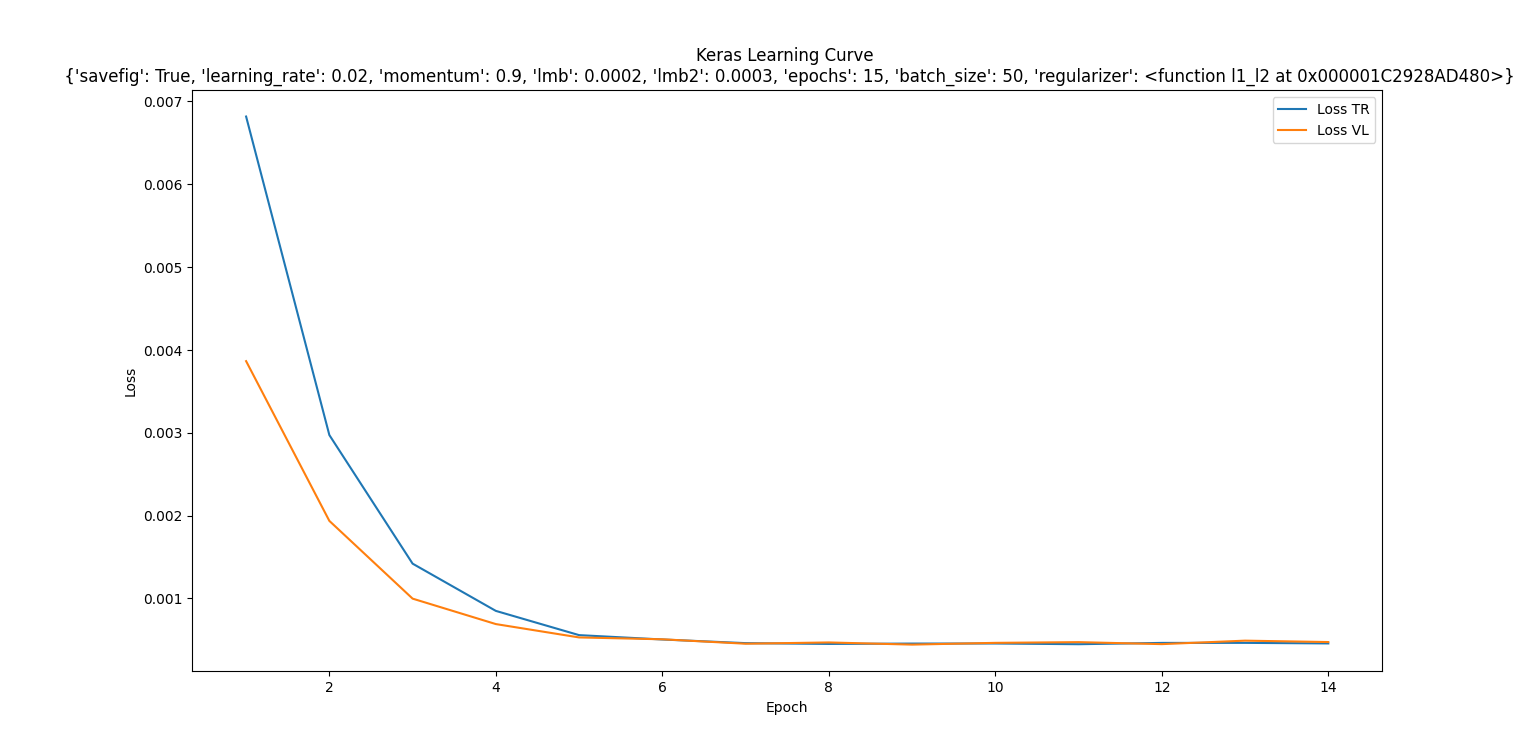
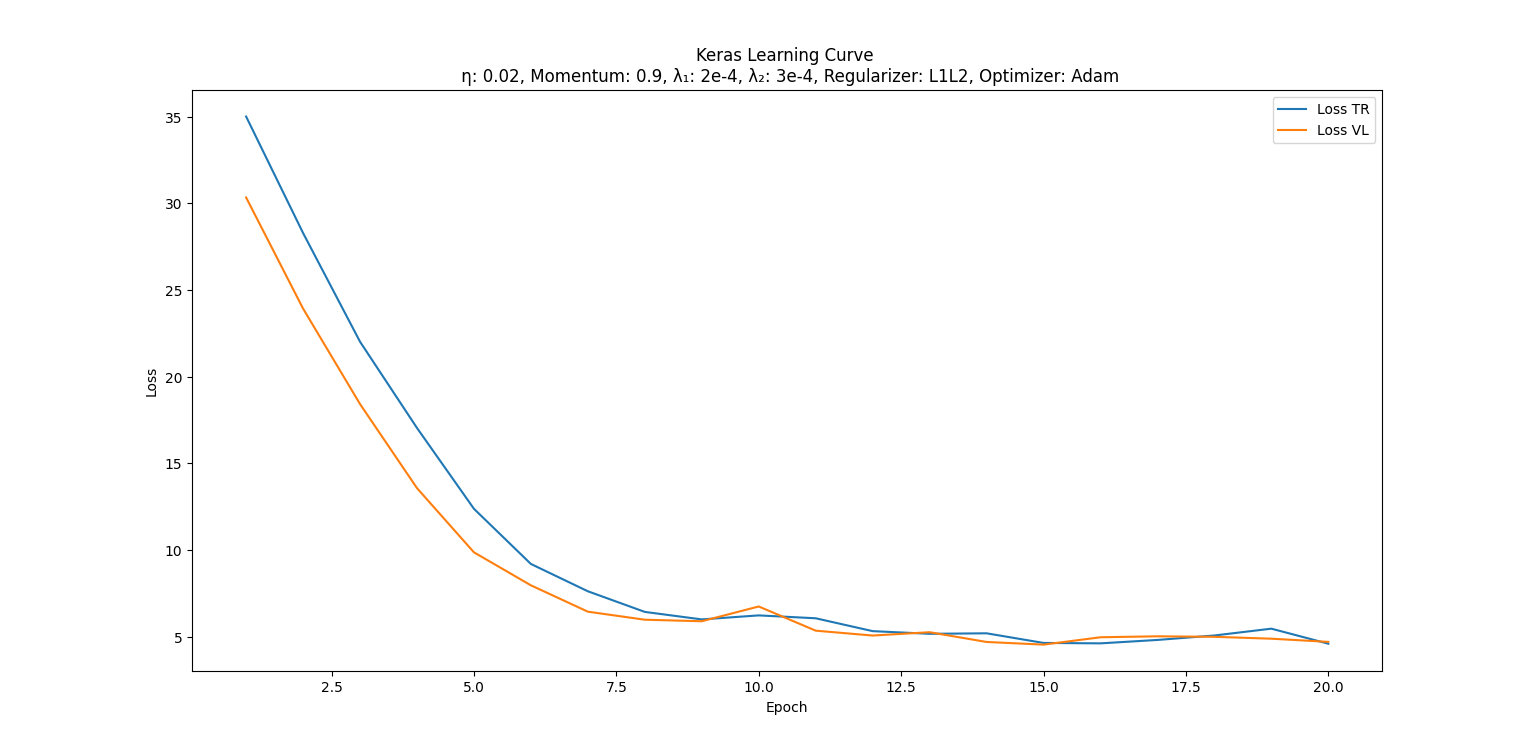
Last CUP commit

diff --git a/keras_test.py b/keras_test.py
@@ -45,8 +45,8 @@ def euclidean_distance_loss(y_true, y_pred):
 
 
 def create_model(lmb=0.0001, lmb2=0.0001,
-                 n_units=20,
-                 n_layers=3,
+                 n_units=5,
+                 n_layers=2,
                  init_mode='glorot_normal',
                  activation_fx='tanh',
                  regularizer=l1_l2):
@@ -81,16 +81,16 @@ def model_selection(x, y, epochs: int = 100):
     """Computed the gridsearch over some parameters and returns the best model."""
     # Evaluation list contains each tested model and relatives parameters into a dictionary
     evaluation = []
-    learning_rate = np.arange(start=0.01, stop=0.4, step=0.01)
+    learning_rate = np.arange(start=0.02, stop=0.4, step=0.01)
     learning_rate = [float(round(i, 4)) for i in list(learning_rate)]
 
     momentum = np.arange(start=0.9, stop=1, step=0.1)
     momentum = [float(round(i, 1)) for i in list(momentum)]
 
-    lmb = np.arange(start=0.0001, stop=0.001, step=0.0001)
+    lmb = np.arange(start=0.0001, stop=0.001, step=0.0002)
     lmb = [float(round(i, 5)) for i in list(lmb)]
 
-    lmb2 = np.arange(start=0.0001, stop=0.001, step=0.0004)
+    lmb2 = np.arange(start=0.0001, stop=0.001, step=0.0002)
     lmb2 = [float(round(i, 5)) for i in list(lmb)]
 
     total = len(learning_rate) * len(momentum) * len(lmb)
@@ -163,7 +163,7 @@ def plot_learning_curve(history, start_epoch=1, **kwargs):
 
     plt.xlabel("Epoch")
     plt.ylabel("Loss")
-    plt.title(f'Keras Learning Curve \n {kwargs}')
+    plt.title(f'Keras Learning Curve \n \u03b7: 0.02, Momentum: 0.9, \u03bb\u2081: 7e-4, \u03bb\u2082: 6e-4, Regularizer: L1L2, Optimizer: Adam')
     plt.legend(lgd)
 
     # Check if predictions are available in the history
@@ -176,7 +176,7 @@ def plot_learning_curve(history, start_epoch=1, **kwargs):
             plt.plot(range(start_epoch, kwargs['epochs']), predictions[:, i][start_epoch:])
             plt.xlabel("Epoch")
             plt.ylabel(f"Prediction Variable {i + 1}")
-            plt.title(f'Keras Learning Curve \n {kwargs} - Prediction Variable {i + 1}')
+            plt.title(f'Keras Learning Curve {kwargs}')
 
     plt.show()
 
@@ -194,16 +194,16 @@ def keras_nn(ms=False):
         # Best model with Lasso/Ridge regularization
         # params = dict(learning_rate=0.016, momentum=0.9, lmb=0.0005, epochs=1000, batch_size=50, regularizer=l2)
         # Best model with ElasticNet regularization
-        params = dict(learning_rate=0.02, momentum=0.9, lmb=0.0005,
-                      lmb2=0.0005, epochs=5000, batch_size=50, regularizer=l1_l2)
+        params = dict(learning_rate=0.02, momentum=0.9, lmb=0.0007,
+                      lmb2=0.0006, epochs=1000, batch_size=50, regularizer=l1_l2)
 
     # Create and fit the model
     cb = EarlyStopping(monitor="val_loss", patience=5)
     model = create_model(lmb=params['lmb'], lmb2=params["lmb2"], regularizer=params["regularizer"])
-    model.compile(optimizer=SGD(learning_rate=params["learning_rate"], momentum=params["momentum"]))
-    # model.compile(optimizer=Adam(learning_rate=params["learning_rate"]))
+    model.compile(optimizer=SGD(learning_rate=params["learning_rate"], momentum=params["momentum"]), loss=euclidean_distance_loss)
+    # model.compile(optimizer=Adam(learning_rate=params["learning_rate"]), loss=euclidean_distance_loss)
     res = model.fit(x, y,
-                    validation_split=0.3,
+                    validation_split=0.2,
                     epochs=params['epochs'],
                     batch_size=params['batch_size'],
                     callbacks=[cb],
@@ -231,21 +231,22 @@ def keras_nn(ms=False):
     plot_learning_curve(res.history, savefig=True, **params)
 
 
-def extremelm():
+def extremelm(hu):
     """Create and fit an extreme learning machine using the Moore-Penrose pseudo inverse as shown in the original
-    aper."""
+    paper."""
     file_path_tr = "./cup/ds/ML-CUP23-TR.csv"
     x_train, y_train, x_test, y_test = read_tr(file_path_tr)
     num_classes = 3
-    num_hidden_units = 500
+    num_hidden_units = hu
 
     # Create instance of our model
     model = ELM(
         num_input_nodes=10,
         num_hidden_units=num_hidden_units,
         num_out_units=num_classes,
-        activation="fourier",
-        loss="mee"
+        activation="sigmoid",
+        loss="mee",
+        w_init="xavier"
     )
 
     # Train
@@ -259,5 +260,7 @@ def extremelm():
     print('val loss: %f' % val_loss)
     print('val acc: %f' % val_acc)
 
+    return train_loss, val_loss
 
-keras_nn()
+
+extremelm(300)

diff --git a/elm.py b/elm.py
@@ -1,4 +1,5 @@
 import numpy as np
+from numpy.random import standard_normal, normal, uniform
 import time
 from keras import backend as K
 
@@ -31,8 +32,25 @@ def _hardlimit(x):
     return (x >= 0).astype(int)
 
 
+def _relu(x):
+    return np.maximum(0, x)
+
+
 def _identity(x):
     return x
+
+
+def _standard_normal(size):
+    return standard_normal(size)
+
+
+def _xavier(size):
+    bound = (np.sqrt(6) / np.sqrt(size[0] + size[1]))
+    return uniform(low=-bound, high=bound, size=size)
+
+
+def _he_normal(size):
+    return normal(loc=0.0, scale=np.sqrt(2 / size[0]), size=size)
 
 
 def getActivation(name):
@@ -40,7 +58,8 @@ def getActivation(name):
         'sigmoid': _sigmoid,
         'fourier': _fourier,
         'hardlimit': _hardlimit,
-        'tanh': _tanh
+        'tanh': _tanh,
+        'relu': _relu
     }[name]
 
 
@@ -49,6 +68,14 @@ def getLoss(name):
         'mse': _mean_squared_error,
         'mae': _mean_abs_error,
         'mee': _euclidean_error
+    }[name]
+
+
+def getInit(name: str, size: tuple):
+    return {
+        'std': _standard_normal(size),
+        'xavier': _xavier(size),
+        'he': _he_normal(size)
     }[name]
 
 
@@ -67,8 +94,8 @@ class ELM:
         else:
             self._beta = np.random.uniform(-1., 1., size=(self._num_hidden_units, self._num_out_units))
 
-        if isinstance(w_init, np.ndarray):
-            self._w = w_init
+        if isinstance(w_init, str):
+            self._w = getInit(w_init, size=(self._num_input_nodes, self._num_hidden_units))
         else:
             self._w = np.random.uniform(-1, 1, size=(self._num_input_nodes, self._num_hidden_units))
 
@@ -101,7 +128,7 @@ class ELM:
     def evaluate(self, X, Y):
         pred = self(X)
 
-        # Loss (base on model setting)
+        # Loss (based on model setting)
         loss = self._loss(Y, pred)
 
         # Accuracy
